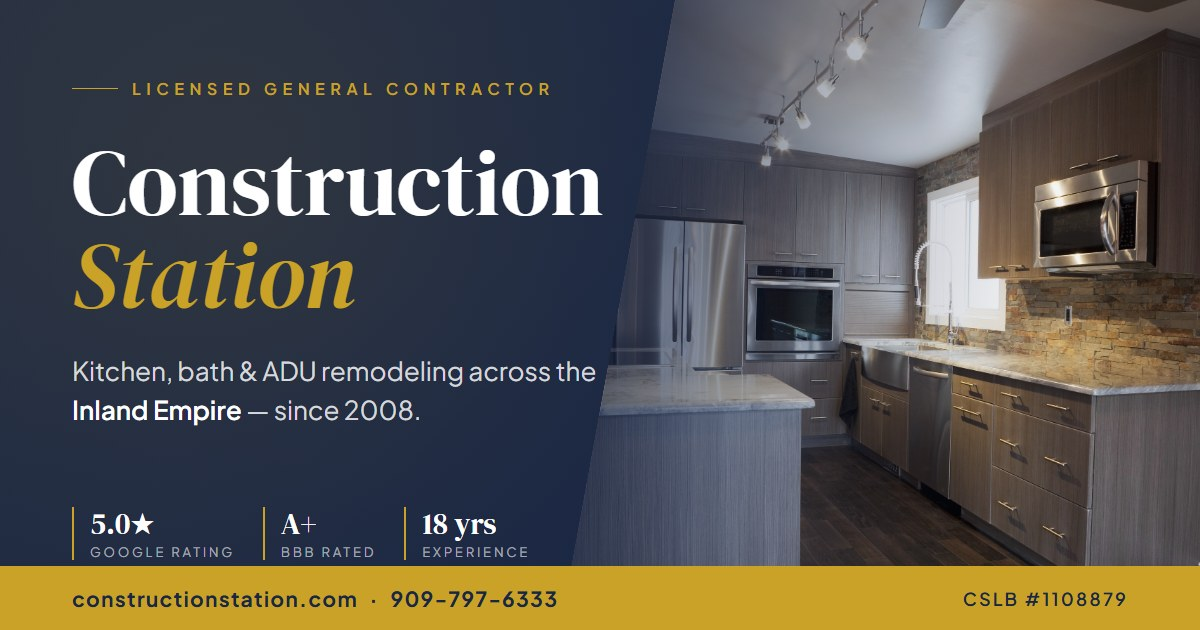
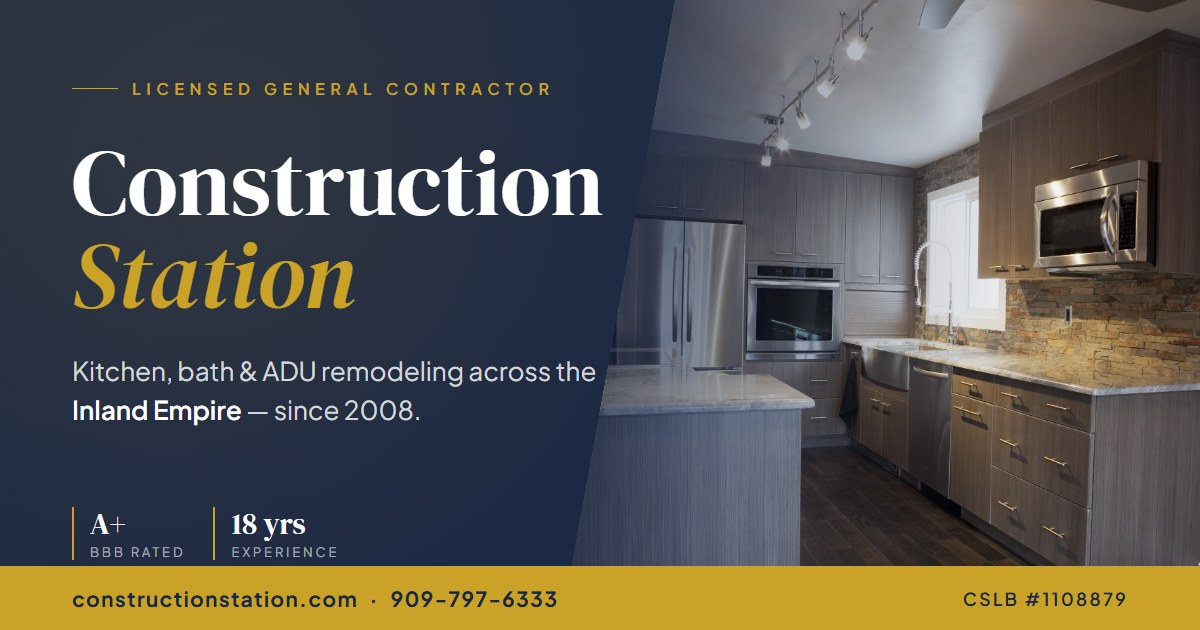
fix(copy): bathroom mistakes post uses owner price; share image reads live rating
- small-bathroom-remodel-mistakes: "$15,000 and $30,000" becomes PRICES.bathroom
  with PRICE_NOTE; new one-question FAQ whose on-page answer and FAQPage JSON-LD
  share one string ending with the free consultation line.
- Share image: render-og.cjs fills the rating badge from OMM's review-summary
  endpoint, or removes the badge if it can't be read. Re-rendered og.jpg: the
  endpoint isn't live yet, so the badge is off (was a typed-in 5.0).

Changed region(s): [[0.0617, 0.8143, 0.4317, 0.9048]]

diff --git a/src/app/blog/small-bathroom-remodel-mistakes/page.tsx b/src/app/blog/small-bathroom-remodel-mistakes/page.tsx
@@ -3,6 +3,7 @@ import BlogPostLayout from "@/components/BlogPostLayout";
 import JsonLd from "@/components/JsonLd";
 import { POSTS } from "@/lib/blog";
 import { BUSINESS_REF } from "@/lib/business-schema";
+import { PRICES, PRICE_NOTE } from "@/lib/prices";
 
 const SITE_URL = process.env.NEXT_PUBLIC_SITE_URL ?? "https://constructionstation.com";
 
@@ -31,10 +32,28 @@ const blogSchema = {
   publisher: BUSINESS_REF,
 };
 
+// One answer for the on-page FAQ and its FAQPage JSON-LD, so they can't drift.
+// Owner-confirmed range only (PRICES.bathroom).
+const COST_QUESTION = "How much does a small bathroom remodel cost in the Inland Empire?";
+const COST_ANSWER = `A bathroom remodel in the Inland Empire typically runs ${PRICES.bathroom}. A small bathroom done properly usually sits at the low end, depending on materials, layout changes, and plumbing work. ${PRICE_NOTE}`;
+
+const faqSchema = {
+  "@context": "https://schema.org",
+  "@type": "FAQPage",
+  mainEntity: [
+    {
+      "@type": "Question",
+      name: COST_QUESTION,
+      acceptedAnswer: { "@type": "Answer", text: COST_ANSWER },
+    },
+  ],
+};
+
 export default function Page() {
   return (
     <>
       <JsonLd data={blogSchema} />
+      <JsonLd data={faqSchema} />
       <BlogPostLayout post={post} related={related}>
       <p className="text-navy/80 text-lg leading-[1.8] mb-6">
         A small bathroom shouldn&rsquo;t mean small results — unless you make these common mistakes.
@@ -105,11 +124,11 @@ export default function Page() {
 
       <h2 className="font-display text-navy text-3xl mt-12 mb-4">Mistake 5: Underestimating Your Budget</h2>
       <p className="text-navy/80 leading-[1.8] mb-5">
-        Bathrooms involve multiple skilled trades — plumbing, electrical, tiling, carpentry. A modest
-        5&times;8 bathroom remodel typically costs between <strong className="text-navy">$15,000 and
-        $30,000</strong> when done properly. That&rsquo;s quality materials, professional installation,
-        proper waterproofing, updated plumbing and electrical, and bringing everything up to current
-        building codes.
+        Bathrooms involve multiple skilled trades — plumbing, electrical, tiling, carpentry. Bathroom
+        remodels in the Inland Empire typically run <strong className="text-navy">{PRICES.bathroom}</strong>,
+        and a modest 5&times;8 bathroom done properly usually sits at the low end. That&rsquo;s quality
+        materials, professional installation, proper waterproofing, updated plumbing and electrical, and
+        bringing everything up to current building codes. {PRICE_NOTE}
       </p>
       <h3 className="font-display text-navy text-xl mt-6 mb-3">How to Fix It</h3>
       <p className="text-navy/80 leading-[1.8] mb-5">
@@ -184,6 +203,14 @@ export default function Page() {
         <li>All necessary permits pulled and inspections coordinated</li>
         <li>One-year installation guarantee on all remodeling work</li>
       </ul>
+
+      <h2 className="font-display text-navy text-3xl mt-12 mb-4">FAQ</h2>
+      <div className="space-y-6 mb-8">
+        <div className="border-b border-navy/10 pb-6">
+          <h3 className="font-display text-navy text-lg mb-2">{COST_QUESTION}</h3>
+          <p className="text-navy/75 text-sm leading-relaxed">{COST_ANSWER}</p>
+        </div>
+      </div>
       </BlogPostLayout>
     </>
   );

diff --git a/scripts/og/og.html b/scripts/og/og.html
@@ -123,7 +123,8 @@
     <h1>Construction<br /><span class="gold">Station</span></h1>
     <div class="sub">Kitchen, bath &amp; ADU remodeling across the <strong>Inland Empire</strong> — since 2008.</div>
     <div class="badges">
-      <div class="badge"><div class="value">5.0★</div><div class="label">Google Rating</div></div>
+      <!-- render-og.cjs fills in the live Google rating, or removes this badge if it can't be read. -->
+      <div class="badge" id="rating-badge"><div class="value"></div><div class="label">Google Rating</div></div>
       <div class="badge"><div class="value">A+</div><div class="label">BBB Rated</div></div>
       <div class="badge"><div class="value">18 yrs</div><div class="label">Experience</div></div>
     </div>
